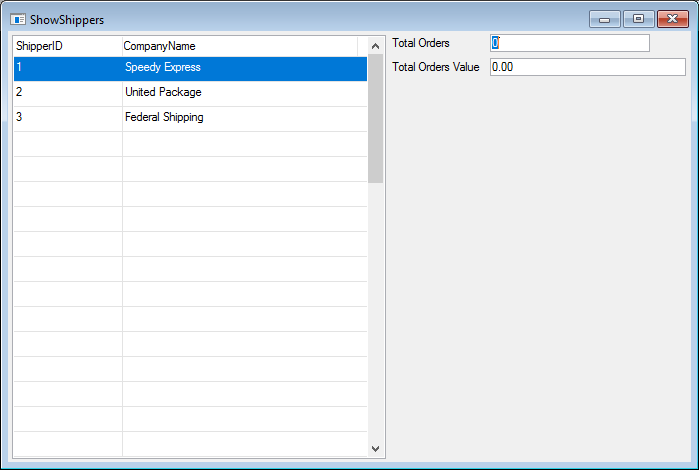
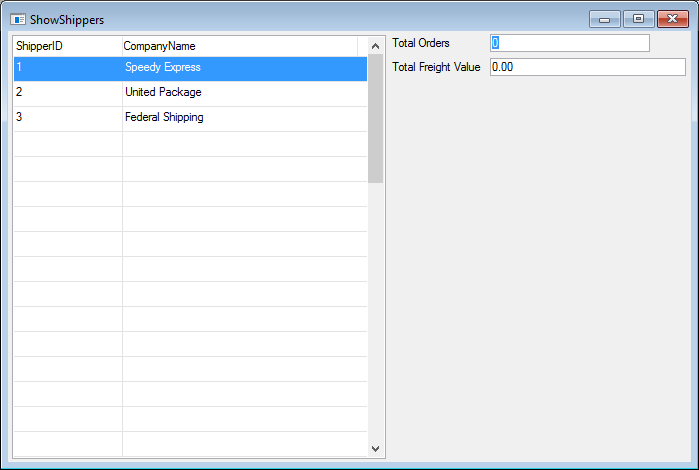
Change some of the wording and pic

Changed region(s): [[0.0, 0.1191, 0.5408, 0.1787], [0.6009, 0.1191, 0.691, 0.1489], [0.691, 0.0596, 0.721, 0.1191]]

diff --git a/01-Development/01-Developer-Guide/11_BusinessProcess-and-Out-Parameters/03-Exercise-Filtering-data-in-the-BusinessProcess/index.md b/01-Development/01-Developer-Guide/11_BusinessProcess-and-Out-Parameters/03-Exercise-Filtering-data-in-the-BusinessProcess/index.md
@@ -4,7 +4,7 @@
 2.  Set the **Shippers** Entity to be the main table.
 2.  Add two local columns (use the mem snippet) :
     1.  **TotalOrders** name **"Total Orders"**, format **"6"**.
-    2.  **TotalOrdersValue** name **"Total Orders Value"**,format **"6.2C"**;
+    2.  **TotalFreightValue** name **"Total Freight Value"**,format **"6.2C"**;
 3.  Build and go to the form.
 5.  Add a **grid** with **two columns** :
     1. **ShipperID**. 
